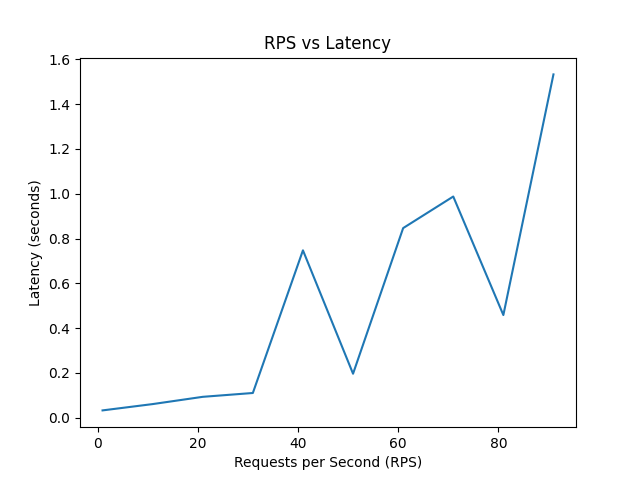
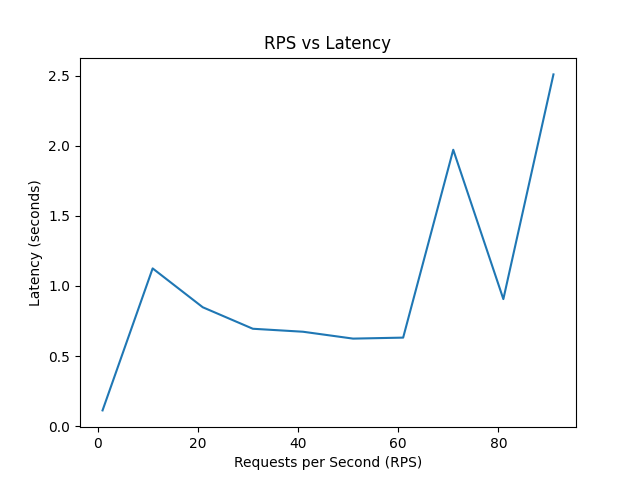
added support for multiple request types to the request handler

diff --git a/performance/RequestHandler.py b/performance/RequestHandler.py
@@ -8,6 +8,20 @@ BACKEND_URLS = {
                     'queueing': 'http://localhost:5001/',
                }
 
+# Request types
+    # 0: GET
+    # 1: POST
+REQUEST_TYPE = {
+    'posting': {
+        'all': 0,
+        'some': 0,
+        '': 1, # create new post
+    },
+    'queueing': {
+        'all': 0
+    }
+}
+
 class RequestHandler:
     def __init__(self, service, endpoint):
         self.service = service
@@ -20,26 +34,35 @@ class RequestHandler:
         
         return response
     
+    def post_request(self, url, json):
+        response = requests.post(url, json = json)
+
+        return response
+
     def general_request_endpoint(self, service, endpoint):
         request_url = BACKEND_URLS[service] + endpoint
         
         return request_url
     
-    def create_requests(self, num_requests):
-        urls = [self.general_request_endpoint(self.service, self.endpoint)] * num_requests
+    def create_requests(self, num_requests, parameters, json):
+        urls = [self.general_request_endpoint(self.service, self.endpoint) + parameters] * num_requests
         self.start_timer()
         with concurrent.futures.ThreadPoolExecutor(max_workers=num_requests) as pool:
-            responses = list(pool.map(self.get_request, urls))
+            request_type = REQUEST_TYPE[self.service][self.endpoint]
+            if (request_type == 0):     
+                responses = list(pool.map(self.get_request, urls))
+            elif (request_type == 1):
+                responses = list(pool.map(self.post_request, urls, [ json ] * num_requests))
         elapsed_time = self.get_time_elapsed()
 
         return elapsed_time
     
-    def aggregate_request_results(self, num_requests, num_trials):
+    def aggregate_request_results(self, num_requests, num_trials, parameters = '', json = ''):
         self.x_data.append(num_requests)
 
         trial_data = []
         for i in range(num_trials):
-            trial_data.append(self.create_requests(num_requests))
+            trial_data.append(self.create_requests(num_requests, parameters, json))
         
         self.y_data.append(sum(trial_data) / num_trials)
 
@@ -64,9 +87,17 @@ class RequestHandler:
 
     
 if __name__ == '__main__':
-    request_handler = RequestHandler('queueing', 'all')
+    request_handler = RequestHandler('posting', '')
+    new_post = {
+        'question': 'test',
+        'questionBody': 'test',
+        'email': 'test',
+        'role': 'Student',
+        'class': '1110',
+        'name': 'test'
+    }
     for i in range(1, 100, 10):
-        request_handler.aggregate_request_results(i, 5)
+        request_handler.aggregate_request_results(i, 5, parameters = '', json = new_post)
     request_handler.plot_data()
 
 
